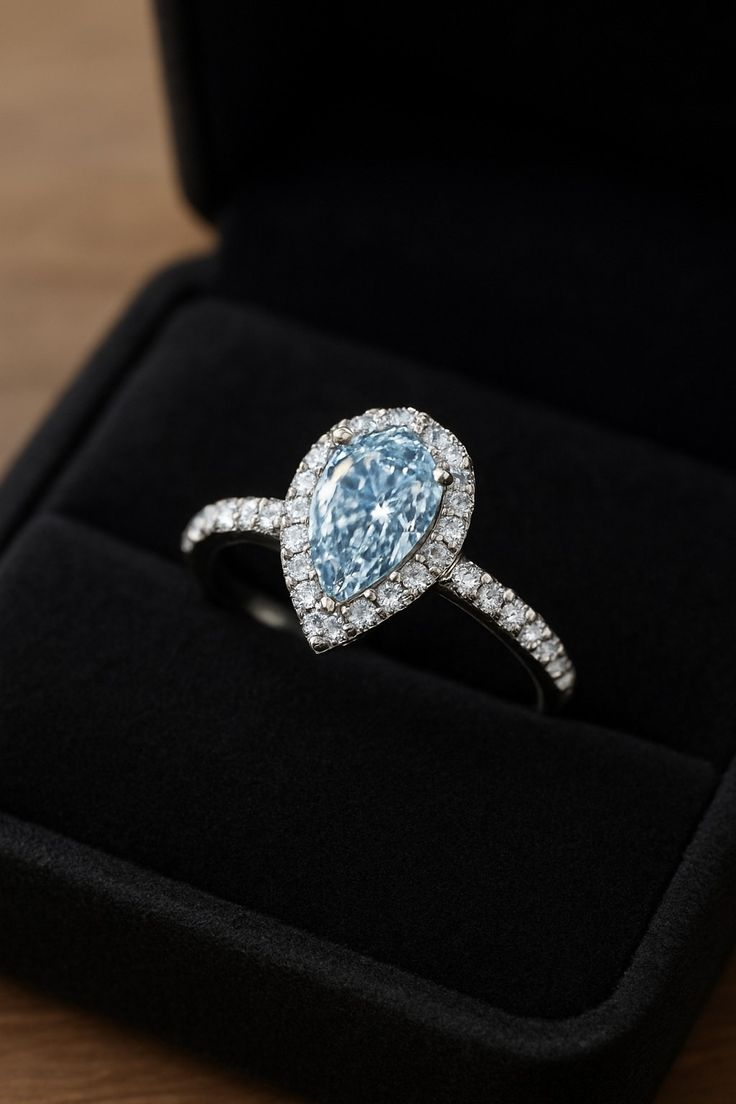
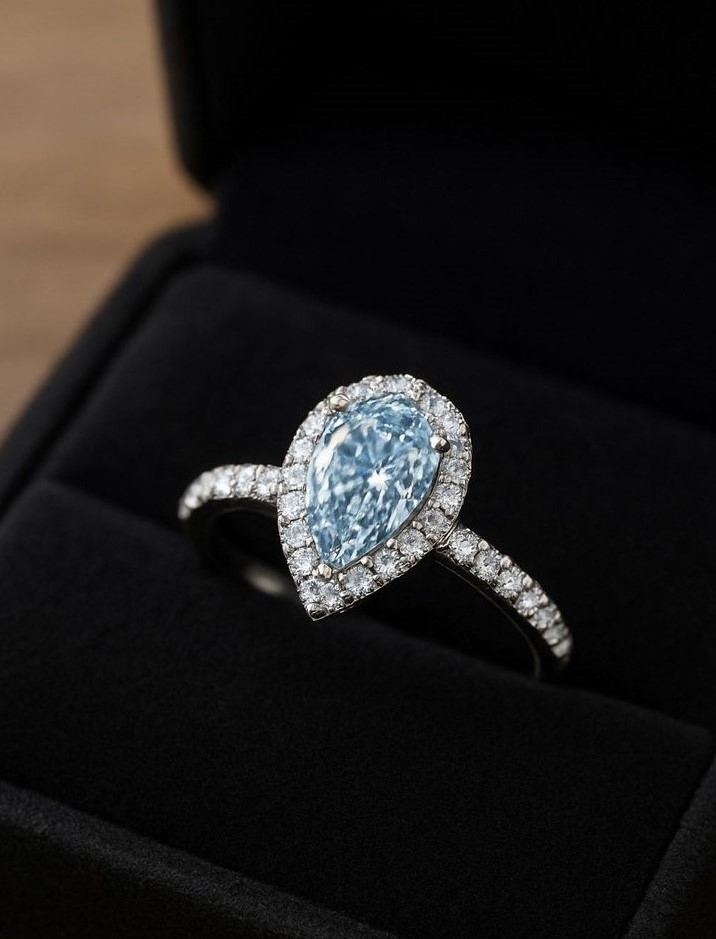
add img 7

diff --git a/index.html b/index.html
@@ -406,17 +406,17 @@
         </p>
          <h3>Aquamarine Collection</h3>
          <div class="emerald-images aquamarine-gallery">
-          <img src="./images/aqu set 1.jpg" alt="aquamarine set">
+          <img src="./images/aqu set 2.jpg" alt="aquamarine set">
 
-          <img src="./images/aqu ring 5.jpg" alt="aquamarine ring">
+          <img src="./images/aqu set 1.jpg" alt="aquamarine ring">
 
-          <img src="./images/aqu ear 3.jpg" alt="aquamarine earing">
+          <img src="./images/aqu ring 5.jpg" alt="aquamarine earing">
 
-          <img src="./images/aqu ring 2.jpg" alt="aquamarine ring">
+          <img src="./images/aqu ear 5.jpg" alt="aquamarine ring">
 
           <img src="./images/aqu brac 1.jpg" alt="aquamarine bracelate">
 
-          <img src="./images/aqu set 2.jpg" alt="aquamarine set2">
+          <img src="./images/aqu ear 3.jpg" alt="aquamarine set2">
          </div>
     </div>
 </section>
